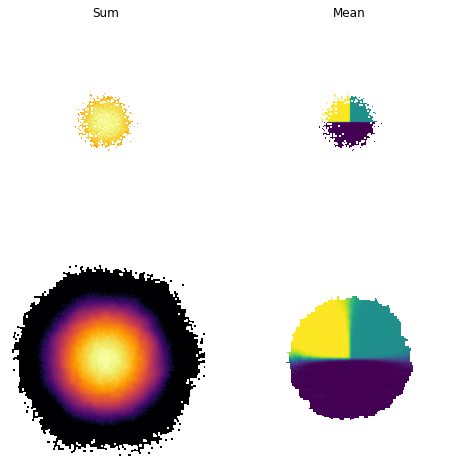
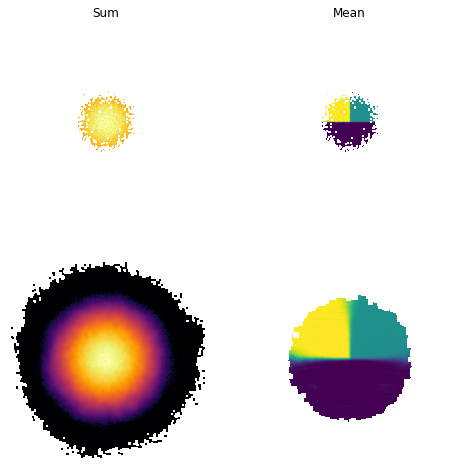
fixed problem with histogram

diff --git a/smooth3d/__init__.py b/smooth3d/__init__.py
@@ -269,9 +269,11 @@ def smooth_3d(
         for i in range(Qs[0].shape[0]):
             h_ld = h[i]
             if np.count_nonzero(~pick) > 0:
-                h_hd = binned_statistic_2d(x[~pick], y[~pick],
-                        quantity_sum[i][~pick], statistic='sum',
-                        bins=np.linspace(-extent, extent, hsize))[0]
+                h_hd = histogram2d(x[~pick], y[~pick],
+                                   weights=quantity_sum[i][~pick],
+                                   bins=int(extent * 2. / res) - 1,
+                                   range=[[-extent, extent], [-extent,
+                                   extent]])
                 h_ld[~np.isfinite(h_ld)] = 0.
                 h_hd[~np.isfinite(h_hd)] = 0.
                 img.append(gaussian_filter(h_ld + h_hd, sigma))
